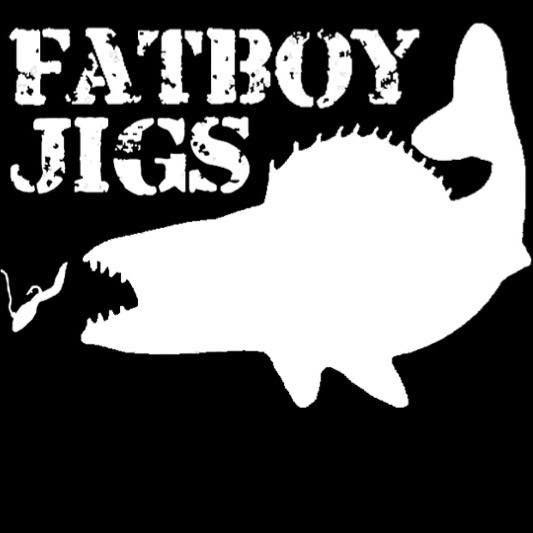
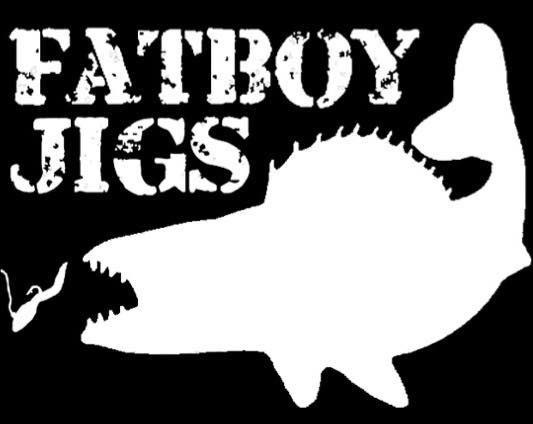
changed info pic sizing, fixed eboard containers again
still eboard containers jank on mobile

diff --git a/index.html b/index.html
@@ -40,7 +40,7 @@
                     <li><a href="#pictures">Pictures</a></li>
                     <li><a href="#leadership">Leadership</a></li>
                     <li><a href="#sponsors">Sponsors</a></li>
-<!--                    <li><a href="#merch">Merch</a></li>-->
+                    <!--                    <li><a href="#merch">Merch</a></li>-->
                 </ul>
             </div>
         </div>
@@ -58,15 +58,8 @@
             <div class="row">
 
                 <div class="col-sm-6">
-                    <img src="pictures/club_logo.jpg" alt="event" width="100%" height="100%" class="img-responsive">
-                    <p>
-                        <!--put picture in about desc here-->
-                    </p>
+                    <img src="pictures/club_logo.jpg" alt="event" height="300px" width="auto">
                 </div>
-
-                <!--div class="col-sm-4">
-                <iframe width="100%" height="300" src="https://www.youtube.com/embed/wb49-oV0F78" frameborder="0" allow="autoplay; encrypted-media" allowfullscreen></iframe>
-            </div>-->
 
                 <div class="col-sm-6">
                     <h2>Our Mission</h2>
@@ -121,7 +114,7 @@
             <br>
 
             <div class="row">
-                
+
                 <div class="col-xs-6 col-sm-4 col-md-4 maxHeightBoardDiv img-responsive">
                     <h2>President</h2>
                     <img class="img-circle" src="eboard/mitch.jpg" alt="Generic placeholder image" width="200" height="200">
@@ -131,13 +124,13 @@
 
                 <div class="col-xs-6 col-sm-4 col-md-4 maxHeightBoardDiv img-responsive">
                     <h2>Vice President</h2>
-                    <img class="img-circle" src="eboard/kevin.jpg" alt="Generic placeholder image" width="200" height="200">
+                    <img class="img-circle" src="eboard/kevin.jpg" alt="Generic placeholder image" height="200">
                     <h3>Kevin Lukens</h3>
                 </div>
 
                 <div class="col-xs-6 col-sm-4 col-md-4 maxHeightBoardDiv img-responsive">
                     <h2>Treasurer</h2>
-                    <img class="img-circle" src="eboard/sam.jpg" alt="Generic placeholder image" width="200" height="200" object-fit="cover">
+                    <img class="img-circle" src="eboard/sam.jpg" alt="Generic placeholder image" width="200" height="200">
 
                     <h3>Samuel Struble</h3>
                 </div>
@@ -166,10 +159,8 @@
                 </div>
 -->
 
-
             </div>
         </div>
-
     </div>
 
     <!--Upcoming Event -->
@@ -182,13 +173,45 @@
 
                 <div class="col-xs-6 col-sm-4 col-md-4 maxHeightSponsorDiv img-responsive">
                     <h3>Tackle Warehouse</h3>
-                    <img src="sponsors/tackle_warehouse.jpg" alt="event" width="100%" height="200" class="img-responsive" onclick="window.open('https://www.tacklewarehouse.com/');">
+                    <img src="sponsors/tackle_warehouse.jpg" alt="event" width="400" height="200" class="img-responsive" onclick="window.open('https://www.tacklewarehouse.com/');">
                 </div>
 
                 <div class="col-xs-6 col-sm-4 col-md-4 maxHeightSponsorDiv img-responsive">
                     <h3>Cabela's</h3>
                     <img src="sponsors/cabelas.jpg" alt="event" width="400" height="200" class="img-responsive" onclick="window.open('https://www.cabelas.com/');">
                 </div>
+
+                <div class="col-xs-6 col-sm-4 col-md-4 maxHeightSponsorDiv img-responsive">
+                    <h3>Lake Drive Marine</h3>
+                    <img src="sponsors/lake-drive.png" alt="event" width="400" height="200" class="img-responsive" onclick="window.open('https://www.lakedrivemarine.com/');">
+                </div>
+
+                <div class="col-xs-6 col-sm-4 col-md-4 maxHeightSponsorDiv img-responsive">
+                    <h3>RecLending</h3>
+                    <img src="sponsors/reclending.png" alt="event" width="400" height="200" class="img-responsive" onclick="window.open('https://www.reclending.com/');">
+                </div>
+
+                <div class="col-xs-6 col-sm-4 col-md-4 maxHeightSponsorDiv img-responsive">
+                    <h3>Gator Guards</h3>
+                    <img src="sponsors/gator-guards.png" alt="event" width="400" height="200" class="img-responsive" onclick="window.open('https://www.gator-guards.com/');">
+                </div>
+
+                <div class="col-xs-6 col-sm-4 col-md-4 maxHeightSponsorDiv img-responsive">
+                    <h3>Humminbird</h3>
+                    <img src="sponsors/humminbird.png" alt="event" width="400" height="200" class="img-responsive" onclick="window.open('https://www.humminbird.com/');">
+                </div>
+
+                <div class="col-xs-6 col-sm-4 col-md-4 maxHeightSponsorDiv img-responsive">
+                    <h3>Minn Kota</h3>
+                    <img src="sponsors/minn-kota.png" alt="event" width="400" height="200" class="img-responsive" onclick="window.open('https://www.minnkotamotors.com/');">
+                </div>
+
+                <div class="col-xs-6 col-sm-4 col-md-4 maxHeightSponsorDiv img-responsive">
+                    <h3>Team Stopper Lures</h3>
+                    <img src="sponsors/stopper-lures.jpg" alt="event" width="400" height="200" class="img-responsive" onclick="window.open('https://www.stopperlures.com/');">
+                </div>
+
+                <!--                not sure about these companies yet-->
 
                 <div class="col-xs-6 col-sm-4 col-md-4 maxHeightSponsorDiv img-responsive">
                     <h3>Fatboy Jigs</h3>

diff --git a/styles/styles.css b/styles/styles.css
@@ -57,7 +57,7 @@ h2 {
 }
 
 .maxHeightBoardDiv {
-    height: 400px;
+    height: 400px
 }
 
 .maxHeightSponsorDiv {
@@ -66,9 +66,9 @@ h2 {
 
 img-circle {
     border-radius: 50%;
-    object-fit: cover;
-    width: 140px;
-    height: 140px;
+    margin: auto;
+    display: block;
+    max-height: 20px;
 }
 
 .nav-tabs li a {
